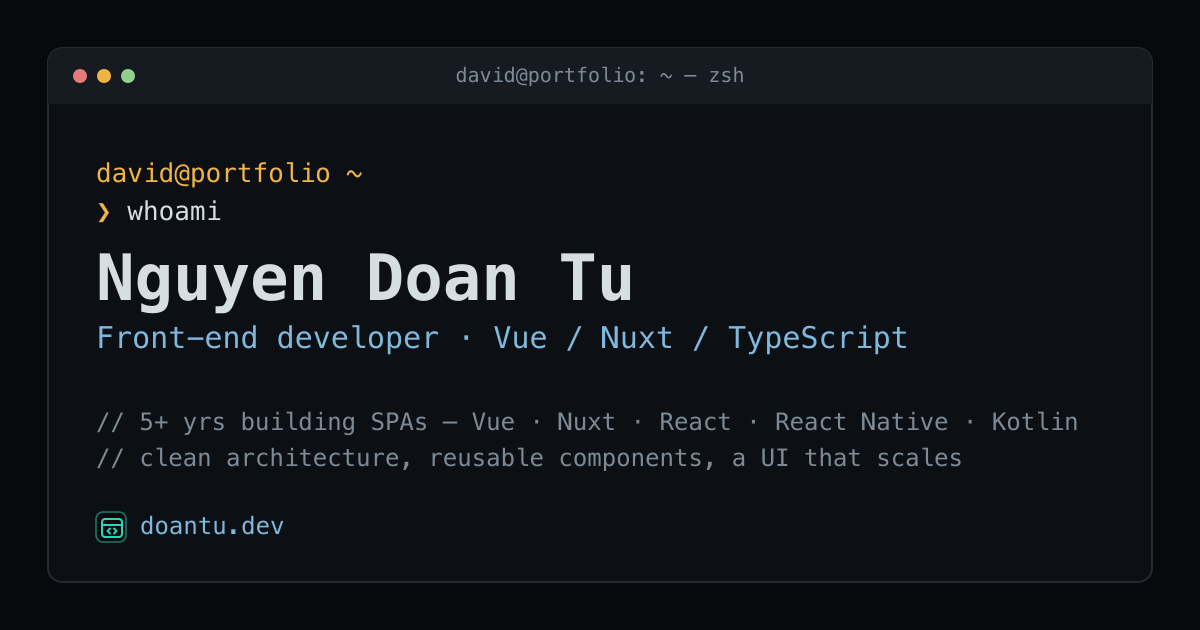
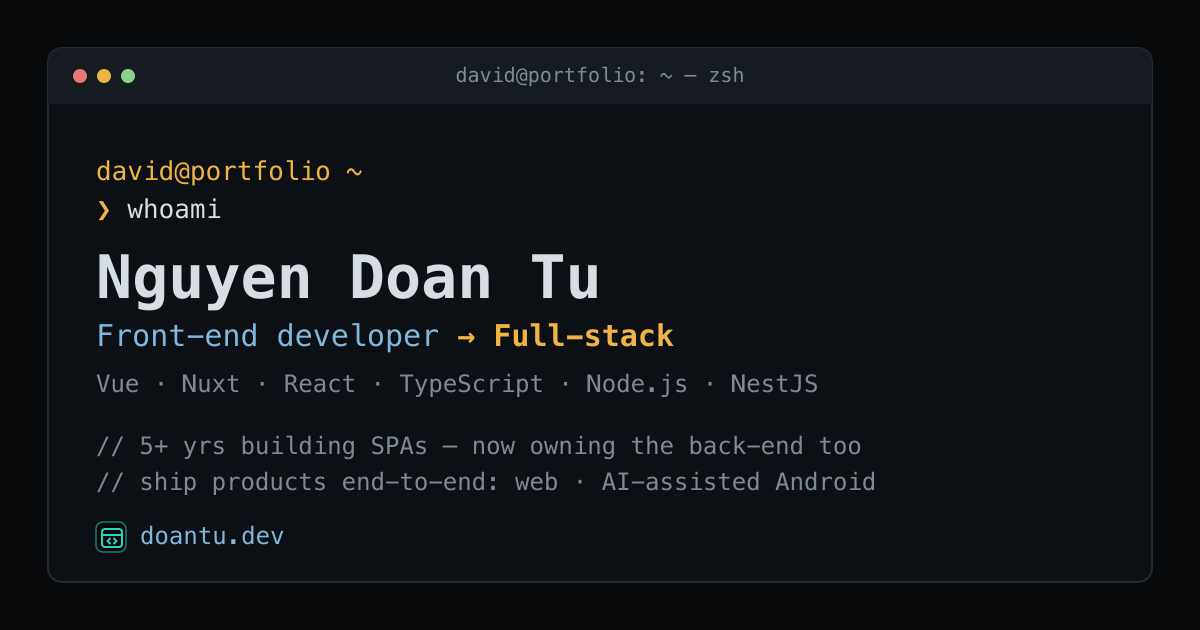
feat: position portfolio toward full-stack and refine skills
Reframe the identity around a full-stack trajectory and tidy the skills
section:

- whoami: split title into role / focus / goal, highlighting the
  "Full-stack developer" goal; add the fullstack line to the bio
- skills: group by layer (frontend / backend / language / mobile) to
  show back-end growth; drop numeric levels, keep bars only; merge
  Vue/Nuxt into one row, move React Native under mobile, drop
  GraphQL/Apollo, add Sass/PostCSS to the styling row
- add a `goals` command (aliased now/roadmap) with now / next / why
- SEO: update title, meta description and JSON-LD for the full-stack
  direction, and regenerate the OG image ("Front-end developer →
  Full-stack")

diff --git a/app/components/PortfolioTerminal.vue b/app/components/PortfolioTerminal.vue
@@ -79,7 +79,9 @@ onMounted(() => {
     let n = 1
     codeLine(n++, `<span class="vio">const</span> <span class="amb b glow">developer</span> = {`)
     codeLine(n++, `  <span class="key">name</span>:       <span class="str">"${esc(ME.name)}"</span>,`)
-    codeLine(n++, `  <span class="key">title</span>:      <span class="str">"${esc(ME.title)}"</span>,`)
+    codeLine(n++, `  <span class="key">role</span>:       <span class="str">"${esc(ME.role)}"</span>,`)
+    codeLine(n++, `  <span class="key">focus</span>:      <span class="str">"${esc(ME.focus)}"</span>,`)
+    codeLine(n++, `  <span class="key">goal</span>:       <span class="amb b glow">"${esc(ME.goal)}"</span>, <span class="dim">// where I'm headed →</span>`)
     codeLine(n++, `  <span class="key">location</span>:   <span class="str">"${esc(ME.location)}"</span>,`)
     codeLine(n++, `  <span class="key">openToWork</span>: <span class="vio">true</span>,`)
     codeLine(n++, `}`)
@@ -131,11 +133,28 @@ onMounted(() => {
   function renderSkills() {
     print(`<span class="dim">$ ./skills --graph</span>`)
     print('')
-    const w = Math.max(...ME.skills.map(s => s[0].length)) + 2
-    ME.skills.forEach(([k, v]) => {
-      const full = '█'.repeat(v), empty = '░'.repeat(10 - v)
-      print(`${esc(pad(k, w))}<span class="bar">${full}</span><span class="bar-e">${empty}</span>`)
+    const all = ME.skills.flatMap(g => g.items)
+    const w = Math.max(...all.map(s => s[0].length)) + 4   // +2 indent, +2 gap
+    ME.skills.forEach((g, i) => {
+      if (i) print('')
+      print(`<span class="amb">${esc(g.label)}</span>`)
+      g.items.forEach(([k, v]) => {
+        const full = '█'.repeat(v), empty = '░'.repeat(10 - v)
+        print(`  ${esc(pad(k, w - 2))}<span class="bar">${full}</span><span class="bar-e">${empty}</span>`)
+      })
     })
+  }
+  function renderGoals() {
+    const g = ME.goals
+    print(`<span class="dim">$ cat ROADMAP.md</span>`)
+    print('')
+    print(`<span class="amb b">now</span>  <span class="dim">→</span> ${esc(g.now)}`)
+    print(`<span class="amb b glow">next</span> <span class="dim">→</span> <span class="b">${esc(g.next)}</span>`)
+    print('')
+    print(`<span class="dim">// why</span>`)
+    g.why.forEach(l => print(`<span class="dim">${esc(l)}</span>`))
+    print('')
+    print(`<span class="faint"># open to full-stack roles.</span> <span class="cmd">contact</span> <span class="faint">to talk.</span>`)
   }
   function renderContact() {
     const c = ME.contact
@@ -154,7 +173,7 @@ onMounted(() => {
   function renderHelp() {
     const rows: [string, string][] = [
       ['whoami', 'who I am'], ['experience', 'companies and roles'], ['projects', 'everything I\'ve built, as source'],
-      ['project <id>', 'filter to one'], ['skills', 'skill graph'], ['contact', '~/.contactrc'],
+      ['project <id>', 'filter to one'], ['skills', 'skill graph'], ['goals', 'where I\'m headed →'], ['contact', '~/.contactrc'],
       ['email · phone · linkedin · github · cv', 'one thing, fast'], ['send <message>', 'email me from the prompt'],
       ['theme <amber|green|mono>', 'change phosphor'], ['clear', 'Ctrl+L works too'],
     ]
@@ -167,7 +186,7 @@ onMounted(() => {
   /* ---------- commands ---------- */
   const history: string[] = []; let hIdx = -1; let buffer = ''
   const ghostEl = $('#ghost')
-  const SUGGEST = ['help', 'experience', 'ls projects', 'skills', 'contact']   // guided path, in order
+  const SUGGEST = ['help', 'experience', 'ls projects', 'skills', 'goals', 'contact']   // guided path, in order
   let sIdx = 0
   function suggestion() {
     if (!buffer) return SUGGEST[sIdx] || ''
@@ -176,7 +195,7 @@ onMounted(() => {
     return m ? m.slice(buffer.length) : ''
   }
   function updateGhost() { ghostEl.textContent = ready ? suggestion() : '' }
-  const COMMANDS = ['help', 'whoami', 'about', 'experience', 'projects', 'project', 'skills', 'contact', 'email', 'phone', 'linkedin', 'github', 'cv', 'resume', 'send', 'theme', 'clear', 'history', 'banner', 'exit', 'sudo', 'ls', 'cat', 'pwd', 'cd', 'neofetch', 'echo', 'rm', 'vim', 'nano']
+  const COMMANDS = ['help', 'whoami', 'about', 'experience', 'projects', 'project', 'skills', 'goals', 'now', 'roadmap', 'contact', 'email', 'phone', 'linkedin', 'github', 'cv', 'resume', 'send', 'theme', 'clear', 'history', 'banner', 'exit', 'sudo', 'ls', 'cat', 'pwd', 'cd', 'neofetch', 'echo', 'rm', 'vim', 'nano']
 
   async function run(raw: string) {
     const input = raw.trim()
@@ -195,8 +214,9 @@ onMounted(() => {
       case 'ls': if (!arg || /projects/.test(arg) || cwd === '~/projects') renderProjects(); else print(`<span class="dir">projects</span>  <span class="dim">experience.log  .contactrc  README.md</span>`); break
       case 'cd': cwd = /projects/.test(arg) ? '~/projects' : '~'; setPrompt(); break
       case 'project': case 'cat': case 'vim': case 'nano': case 'open':
-        if (/readme/i.test(arg)) renderWhoami(); else if (/experience/.test(arg)) renderExperience(); else if (/contactrc/.test(arg)) renderContact(); else renderProject(pid(arg)); break
+        if (/readme/i.test(arg)) renderWhoami(); else if (/experience/.test(arg)) renderExperience(); else if (/contactrc/.test(arg)) renderContact(); else if (/roadmap/i.test(arg)) renderGoals(); else renderProject(pid(arg)); break
       case 'skills': renderSkills(); break
+      case 'goals': case 'now': case 'roadmap': renderGoals(); break
       case 'contact': renderContact(); break
       case 'email': print(`<a href="mailto:${ME.contact.email}">${esc(ME.contact.email)}</a>`); break
       case 'phone': print(`<a href="tel:${ME.contact.phone.replace(/\s/g, '')}">${esc(ME.contact.phone)}</a>`); break

diff --git a/app/data/portfolio.ts b/app/data/portfolio.ts
@@ -31,15 +31,31 @@ export interface Project {
 /** [label, level] where level is 0–10, rendered as a bar */
 export type Skill = [string, number]
 
+export interface SkillGroup {
+  label: string
+  items: Skill[]
+}
+
+export interface Goals {
+  now: string
+  next: string
+  why: string[]
+}
+
 export interface Me {
   user: string
   host: string
   name: string
+  /** SEO / social job title */
   title: string
+  role: string
+  focus: string
+  goal: string
   location: string
   bio: string[]
+  goals: Goals
   contact: Contact
-  skills: Skill[]
+  skills: SkillGroup[]
   experience: Experience[]
   projects: Project[]
 }
@@ -47,7 +63,10 @@ export interface Me {
 export const ME: Me = {
   user: 'david', host: 'portfolio',
   name: 'Nguyen Doan Tu',
-  title: 'Front-end developer · Vue / Nuxt / TypeScript',
+  title: 'Front-end developer moving to full-stack · Vue / Nuxt / React',
+  role: 'Front-end developer',
+  focus: 'Vue · Nuxt · React · TypeScript',
+  goal: 'Full-stack developer',
   location: 'Hanoi, Vietnam',
   bio: [
     'I build web front-ends — mostly Vue and Nuxt, in TypeScript — and have',
@@ -57,7 +76,18 @@ export const ME: Me = {
     'consistent as a codebase grows. I have worked across domains such as',
     'social platforms, Web3, e-commerce and more. I work closely with',
     'designers, backend engineers and product.',
+    '',
+    'Now expanding into the backend with Node.js and NestJS — my goal is to',
+    'own products end-to-end as a full-stack developer.',
   ],
+  goals: {
+    now: 'Front-end engineer @ Xantus — large-scale SPAs in Vue & Nuxt 3.',
+    next: 'Full-stack — deepening Node.js / NestJS, database & system design.',
+    why: [
+      'I already ship products end-to-end (web + AI-assisted Android apps).',
+      'Backend is the next layer I want to own, not just consume.',
+    ],
+  },
   contact: {
     email: 'doantufptu@gmail.com',
     phone: '+84 969 876 218',
@@ -66,13 +96,35 @@ export const ME: Me = {
     cv: '',
   },
   skills: [
-    ['Vue.js', 9],
-    ['Nuxt.js (2 & 3)', 9],
-    ['React.js / Next.js / React Native', 6],
-    ['Node.js / NestJS', 5],
-    ['JavaScript / TypeScript', 9],
-    ['Pinia / Vuex', 8],
-    ['TailwindCSS', 8],
+    {
+      label: 'frontend',
+      items: [
+        ['Vue.js / Nuxt.js (2 & 3)', 9],
+        ['React.js / Next.js', 6],
+        ['Pinia / Vuex', 8],
+        ['TailwindCSS / Sass / PostCSS', 8],
+      ],
+    },
+    {
+      label: 'backend',
+      items: [
+        ['Node.js / NestJS', 5],
+        ['REST APIs', 6],
+      ],
+    },
+    {
+      label: 'language',
+      items: [
+        ['JavaScript / TypeScript', 9],
+      ],
+    },
+    {
+      label: 'mobile',
+      items: [
+        ['React Native', 6],
+        ['Kotlin / Android (AI-assisted)', 5],
+      ],
+    },
   ],
   // newest first
   experience: [

diff --git a/app/pages/index.vue b/app/pages/index.vue
@@ -8,7 +8,7 @@ import { ME } from '~/data/portfolio'
 const SITE = 'https://doantu.dev'
 const title = `${ME.name} — ${ME.title}`
 const description =
-  'David (Nguyen Doan Tu) — front-end developer with 5+ years building SPAs in Vue, Nuxt and TypeScript, plus React, React Native and Kotlin. An interactive terminal portfolio you can talk to.'
+  'David (Nguyen Doan Tu) — front-end developer with 5+ years building SPAs in Vue, Nuxt and TypeScript, plus React and React Native, now moving into back-end (Node.js, NestJS) toward full-stack. An interactive terminal portfolio you can talk to.'
 const ogImage = `${SITE}/og.png`
 
 useSeoMeta({
@@ -57,7 +57,7 @@ useHead({
         address: { '@type': 'PostalAddress', addressLocality: ME.location },
         email: ME.contact.email ? `mailto:${ME.contact.email}` : undefined,
         sameAs: [ME.contact.linkedin, ME.contact.github].filter(Boolean),
-        knowsAbout: ME.skills.map(s => s[0]),
+        knowsAbout: ME.skills.flatMap(g => g.items.map(s => s[0])),
       }),
     },
   ],
